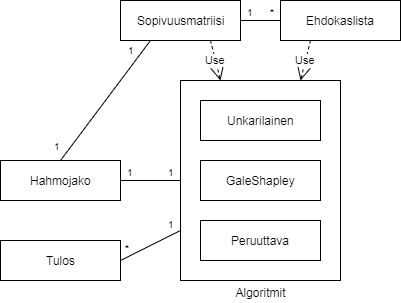
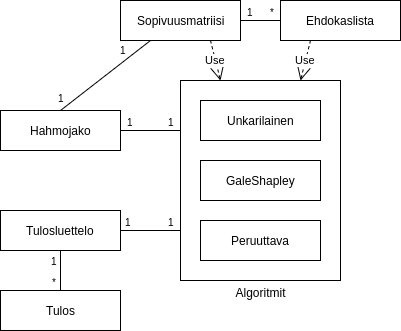
uudet dokumentaatiokuvat ja lisäyksiä testeihin

diff --git a/larp-caster/src/test/java/IntegraatioTest.java b/larp-caster/src/test/java/IntegraatioTest.java
@@ -77,6 +77,7 @@ public class IntegraatioTest {
     public void hahmojakoGaleShapleyHahmoSyntDatallaToimiiOikein() {
         this.hahmojako.setKaytettavaAlgoritmi("galeShapleyHahmoKosii");
         this.hahmojako.setMinimisopivuus(50);
+        this.hahmojako.setDiagnostiikkatila(true);
         this.hahmojako.teeHahmojako();
         int pelaaja = this.hahmojako.getTulokset()[0].hae(0).getHahmojenPelaajat()[5];
         assertEquals(5, pelaaja);
@@ -86,6 +87,7 @@ public class IntegraatioTest {
     public void hahmojakoGaleShapleyPelaajaSyntDatallaToimiiOikein() {
         this.hahmojako.setKaytettavaAlgoritmi("galeShapleyPelaajaKosii");
         this.hahmojako.setMinimisopivuus(70);
+        this.hahmojako.setDiagnostiikkatila(true);
         this.hahmojako.teeHahmojako();
         int pelaaja = this.hahmojako.getTulokset()[0].hae(0).getHahmojenPelaajat()[3];
         assertEquals(3, pelaaja);
@@ -187,6 +189,7 @@ public class IntegraatioTest {
     public void hahmojakoPeruuttavaSyntDatalla50ToimiiOikein() {
         this.hahmojako.setKaytettavaAlgoritmi("peruuttava");
         this.hahmojako.setMinimisopivuus(50);
+        this.hahmojako.setDiagnostiikkatila(true);
         this.hahmojako.teeHahmojako();
         int pelaaja = this.hahmojako.getTulokset()[0].hae(0).getHahmojenPelaajat()[3];
         assertEquals(3, pelaaja);
@@ -223,6 +226,7 @@ public class IntegraatioTest {
     public void hahmojakoUnkarilainenSyntDatalla50ToimiiOikein() {
         this.hahmojako.setKaytettavaAlgoritmi("unkarilainen");
         this.hahmojako.setMinimisopivuus(50);
+        this.hahmojako.setDiagnostiikkatila(true);
         this.hahmojako.teeHahmojako();
         int pelaaja = this.hahmojako.getTulokset()[0].hae(0).getHahmojenPelaajat()[8];
         assertEquals(8, pelaaja);
@@ -253,5 +257,6 @@ public class IntegraatioTest {
         int pelaaja = this.hahmojako.getTulokset()[0].hae(0).getHahmojenPelaajat()[20];
         assertEquals(40, pelaaja);
     }
+    
     
 }

diff --git a/larp-caster/src/test/java/HahmojakoTest.java b/larp-caster/src/test/java/HahmojakoTest.java
@@ -105,6 +105,30 @@ public class HahmojakoTest {
     }
     
     @Test
+    public void enimmaisvariaatioastenAsetusToimii() {
+        this.hahmojako.setEnimmaisvariaatioaste(4);
+        assertEquals(4, this.hahmojako.getEnimmaisvariaatioaste());
+    }
+    
+    @Test
+    public void tulostenEnimmaismaaranAsetusToimii() {
+        this.hahmojako.setTulostenEnimmaismaara(200);
+        assertEquals(200, this.hahmojako.getTulostenEnimmaismaara());
+    }
+    
+    @Test
+    public void laskennanAikakatkaisunAsetusToimii() {
+        this.hahmojako.setLaskennanAikakatkaisu(180);
+        assertEquals(180, this.hahmojako.getLaskennanAikakatkaisu());
+    }
+    
+    @Test
+    public void diagnostiikkatilanAsetusToimii() {
+        this.hahmojako.setDiagnostiikkatila(true);
+        assertEquals(true, this.hahmojako.getDiagnostiikkatila());
+    }
+    
+    @Test
     public void hahmojakoMahdottomillaEhdoillaEiToimi() {
         this.hahmojako.setKaytettavaAlgoritmi("galeShapleyHahmoKosii");
         this.hahmojako.setMinimisopivuus(90);

diff --git a/larp-caster/src/main/java/fi/kapsi/vmarttil/larpcaster/algorithms/Peruuttava.java b/larp-caster/src/main/java/fi/kapsi/vmarttil/larpcaster/algorithms/Peruuttava.java
@@ -29,12 +29,12 @@ public class Peruuttava {
     private int minimisopivuus;
     private int pelaajamaara;
     private int hahmomaara;
+    private int jarjestysnumero;
     private int sopivuusraja;
     private int ehdokkaidenMinimimaara;
     private Ehdokaslista[] kaytettavatEhdokaslistat;
     private int[] hahmojenValinnat;
     private boolean[] vapaatPelaajat;
-    private int jarjestysnumero;
     private Tulosluettelo tulokset;
     private boolean lopetus;
     
